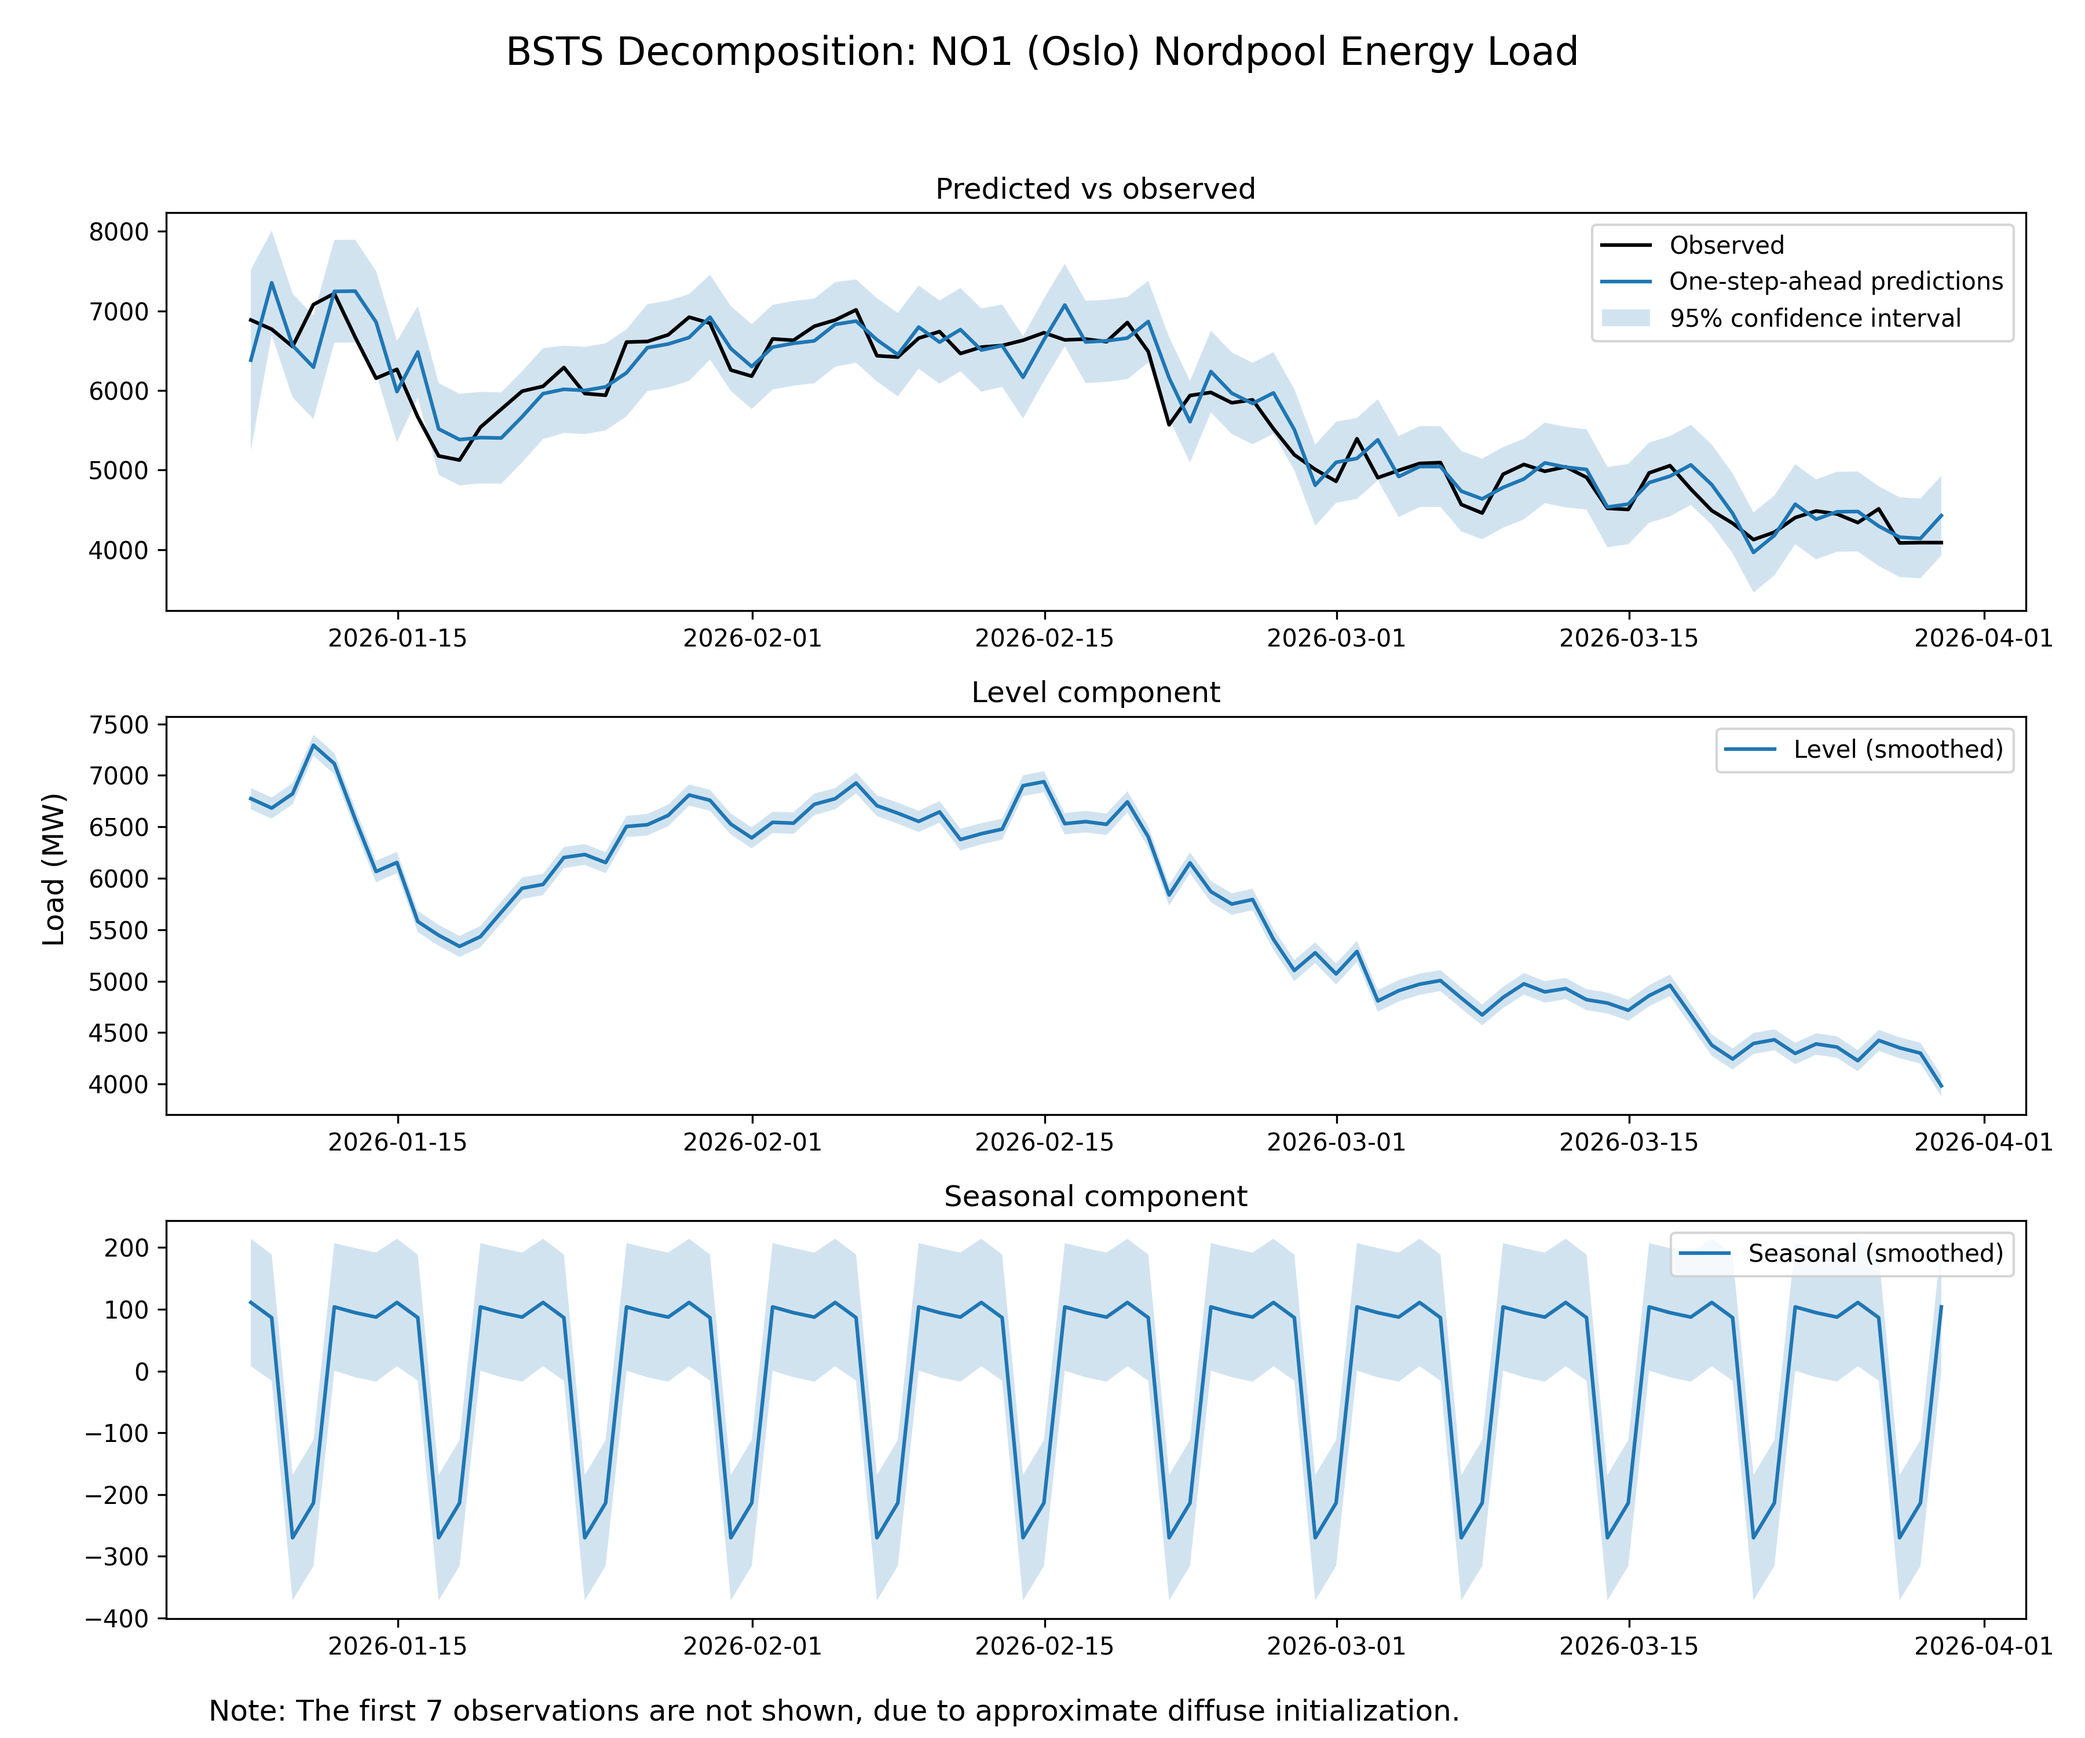
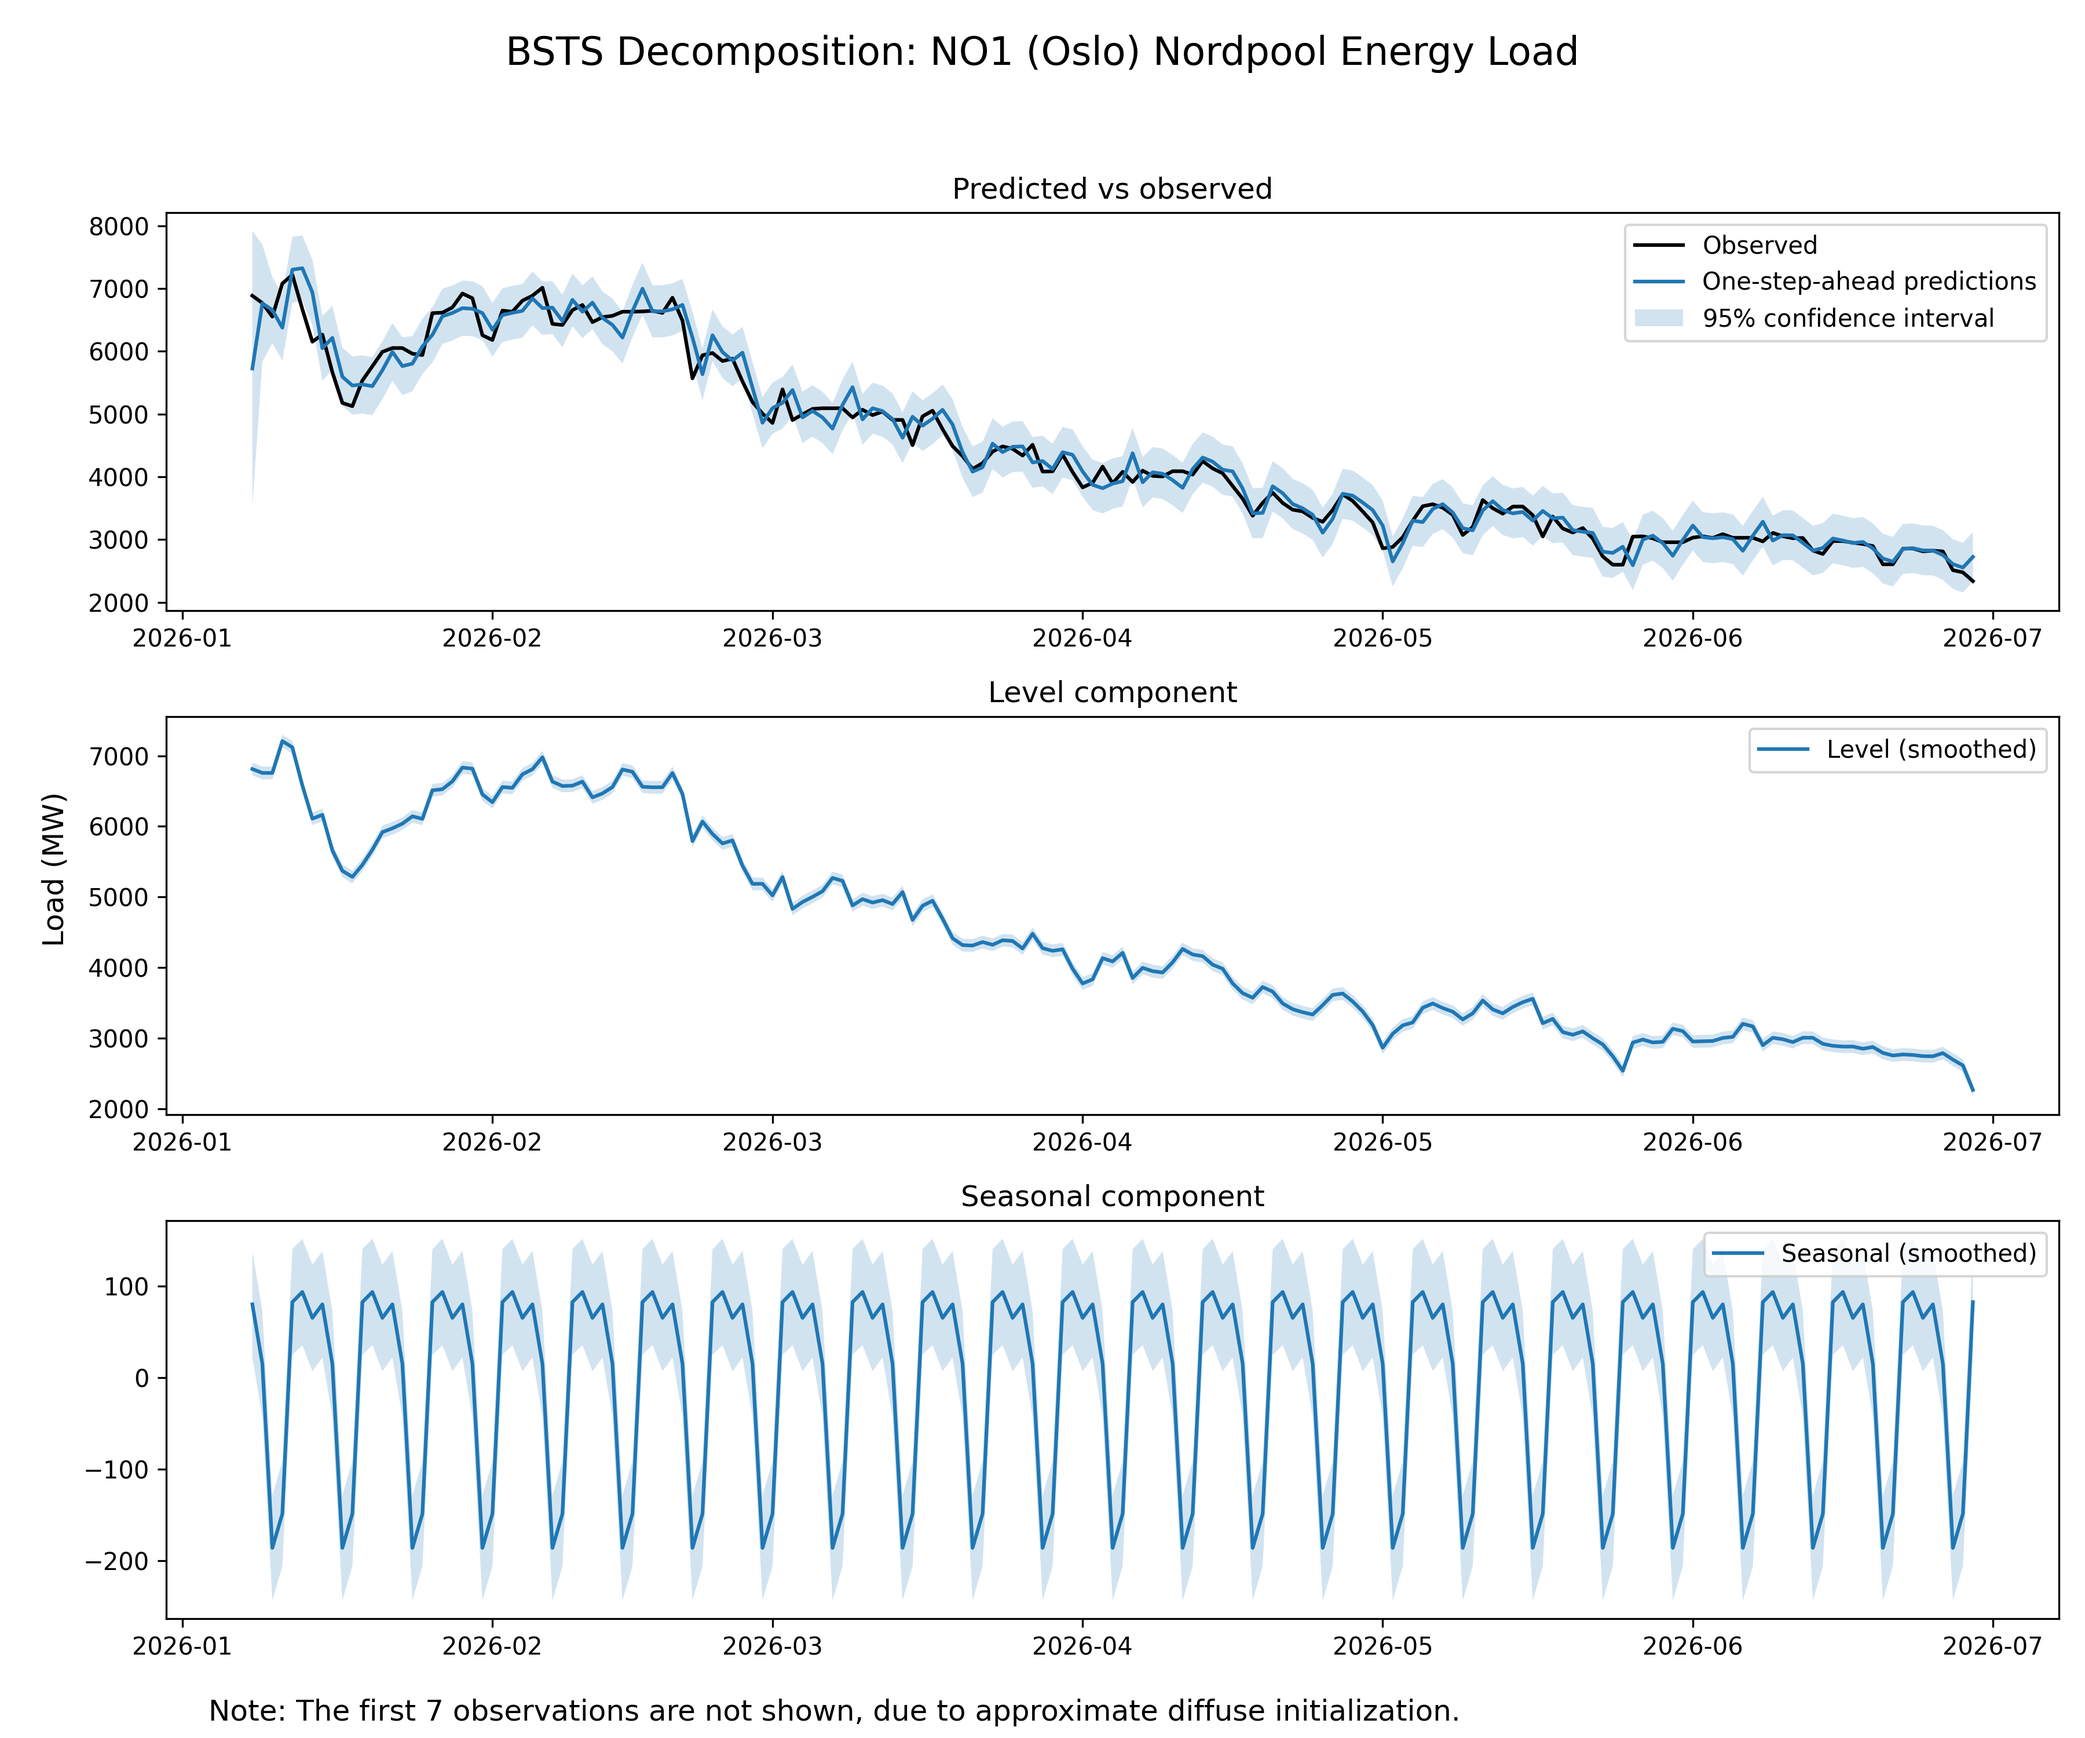
refactor: extract the data preprocessing logic from generate_plots.py to processor.py

diff --git a/src/energy_uncertainty_bsts/processing/processor.py b/src/energy_uncertainty_bsts/processing/processor.py
@@ -2,7 +2,45 @@ import pandas as pd
 from scipy.stats import median_abs_deviation
 
 
-def remove_outliers(data_frame, column) -> pd.DataFrame:
+def preprocess_data(data_frame: pd.DataFrame, column: str) -> pd.DataFrame:
+    """
+    Take an unprocessed data frame straight from the source and give it a regular structure.
+
+    :param data_frame: A data frame read from some source e.g. CSV.
+    :param column: The target column to read load values from.
+    :return: The processed data frame.
+    """
+
+    df_copy = data_frame.copy()
+
+    if len(df_copy.columns) != 2:
+        raise ValueError(f"Expected to preprocess 2 columns, got {len(df_copy.columns)} column(s).")
+
+    # Assume the first column is the timestamp.
+    first_col = df_copy.columns[0]
+    df_copy = df_copy.set_index(first_col)
+    df_copy.index.name = "Timestamp"
+
+    # Remove times and process only dates, before reattaching UTC time.
+    df_dates = df_copy.index.astype(str).str.split(" ").str[0]
+    df_copy.index = pd.to_datetime(df_dates).normalize().tz_localize("UTC")
+
+    if df_copy.index.freq is None:
+        df_copy = df_copy.asfreq("D")
+
+    df_copy = _fill_data_frame(df_copy)  # Fill any missing days.
+
+    # Identify the load column
+    if column not in df_copy.columns:
+        # If the expected load values column name is not found, take the first available column.
+        first_col = df_copy.columns[0]
+        print(f"Warning: '{column}' column not found. Using '{first_col}' instead.")
+        df_copy = df_copy.rename(columns={first_col: column})
+
+    return df_copy
+
+
+def remove_outliers(data_frame: pd.DataFrame, column: str) -> pd.DataFrame:
     """
     Detect and remove outliers to filter out extreme values.
 
@@ -13,10 +51,10 @@ def remove_outliers(data_frame, column) -> pd.DataFrame:
     Energy market loads typically follow a "random walk with drift", so a rolling window respects this seasonality.
     """
 
+    df_copy = data_frame.copy()
+
     rolling_window_days = 7  # The number of days the rolling window should have.
     z_score_threshold = 3
-
-    df_copy = data_frame.copy()
 
     rolling_median = df_copy[column].rolling(window=rolling_window_days, center=True, min_periods=1).median()
 
@@ -33,4 +71,12 @@ def remove_outliers(data_frame, column) -> pd.DataFrame:
     modified_z_score = abs((df_copy[column] - rolling_median) / rolling_mad)
 
     df_copy.loc[modified_z_score > z_score_threshold, column] = None
-    return df_copy.ffill()
+
+    df_copy = _fill_data_frame(df_copy)
+
+    return df_copy
+
+
+def _fill_data_frame(data_frame: pd.DataFrame):
+    data_frame = data_frame.ffill()  # Use forward filling to fill the data frame.
+    return data_frame

diff --git a/tests/processing/test_processor.py b/tests/processing/test_processor.py
@@ -1,10 +1,84 @@
+import re
+
 import numpy as np
 import pandas as pd
+import pytest
 
-from energy_uncertainty_bsts.processing.processor import remove_outliers
-from src.energy_uncertainty_bsts.config import CSV_LOAD_COLUMN_NAME
+from energy_uncertainty_bsts.config import CSV_LOAD_COLUMN_NAME
+from energy_uncertainty_bsts.processing.processor import preprocess_data, remove_outliers
 
 target_col = CSV_LOAD_COLUMN_NAME
+
+
+@pytest.fixture
+def test_data_frame() -> pd.DataFrame:
+    """
+    Generate a test data frame.
+    """
+
+    data = {
+        "": [
+            "2026-01-01 00:00:00+01:00",
+            "2026-01-02 00:00:00+01:00",
+            # Note the missing January 3rd
+            "2026-01-04 00:00:00+02:00",
+        ],
+        target_col: [5000.0, 5100.0, 5300.0],
+    }
+
+    return pd.DataFrame(data)
+
+
+def test_preprocess_data_verifies_two_columns():
+    df_one_clm = pd.DataFrame(
+        {
+            target_col: [100.0, 100.0],
+        }
+    )
+
+    expected_err_msg = f"Expected to preprocess 2 columns, got {len(df_one_clm.columns)} column(s)."
+    with pytest.raises(ValueError, match=re.escape(expected_err_msg)):
+        preprocess_data(df_one_clm, target_col)
+
+
+def test_preprocess_data_sets_timestamp_index(test_data_frame):
+    data_frame = preprocess_data(test_data_frame, target_col)
+
+    assert data_frame.index.name == "Timestamp"
+    assert "Timestamp" not in data_frame.columns
+    assert len(data_frame.columns) == 1
+
+
+def test_preprocess_data_utc_conversion(test_data_frame):
+    data_frame = preprocess_data(test_data_frame, target_col)
+
+    assert str(data_frame.index.tz) == "UTC"
+
+
+def test_preprocess_data_sets_frequency(test_data_frame):
+    data_frame = preprocess_data(test_data_frame, target_col)
+
+    assert data_frame.index.freqstr == "D"
+
+
+def test_preprocess_data_fills_missing_days(test_data_frame):
+    data_frame = preprocess_data(test_data_frame, target_col)
+
+    # The missing January 3rd date should be filled with Jan 2nd's value
+    assert len(data_frame) == 4
+
+    target_timestamp = pd.Timestamp(ts_input="2026-01-03", tz="UTC")
+    assert data_frame.loc[target_timestamp, target_col] == 5100.0
+
+
+def test_preprocess_data_column_fallback(test_data_frame):
+    bad_col_data_frame = test_data_frame.rename(columns={"Timestamp": "BadColumnName"})
+
+    data_frame = preprocess_data(bad_col_data_frame, target_col)
+
+    # Assert that the data frame renames its bad column name to the expected column name.
+    assert target_col in data_frame.columns
+    assert data_frame[target_col].iloc[0] == test_data_frame[target_col].iloc[0]
 
 
 def test_remove_outliers_detects_spike():

diff --git a/tests/test_data_processing.py b/tests/test_data_processing.py
@@ -3,16 +3,15 @@ from unittest.mock import patch
 
 import pandas as pd
 import pytest
-from pandas import DataFrame
 
+from energy_uncertainty_bsts.config import CSV_LOAD_COLUMN_NAME
 from energy_uncertainty_bsts.visualisation.generate_plots import get_project_root, load_and_preprocess_data
-from src.energy_uncertainty_bsts.config import CSV_LOAD_COLUMN_NAME
 
 target_col = CSV_LOAD_COLUMN_NAME
 
 
 @pytest.fixture
-def fake_data_frame() -> DataFrame:
+def fake_data_frame() -> pd.DataFrame:
     """
     Generate a test data frame.
     """
@@ -45,44 +44,6 @@ def test_load_and_preprocess_file_not_found():
 
     with pytest.raises(FileNotFoundError):
         load_and_preprocess_data(Path("non_existent.csv"), target_col)
-
-
-def test_load_and_preprocess_utc_conversion(fake_csv):
-    """
-    Verify timezones are converted to UTC.
-    """
-
-    data_frame = load_and_preprocess_data(fake_csv, target_col)
-    assert str(data_frame.index.tz) == "UTC"
-
-
-def test_load_and_preprocess_fills_missing_days(fake_csv):
-    """
-    Verify that the frequency is set and that gaps in the timeline are filled.
-    """
-
-    data_frame = load_and_preprocess_data(fake_csv, target_col)
-
-    assert data_frame.index.freqstr == "D"
-
-    # The missing January 3rd date should be filled with Jan 2nd's value (110.0)
-    assert len(data_frame) == 4
-    assert data_frame.loc["2026-01-03", target_col] == 110.0
-
-
-def test_load_and_preprocess_column_fallback(tmp_path):
-    """
-    Ensure that if the expected load values column name is not found, the first available column is used.
-    """
-
-    csv_path = tmp_path / "bad_col.csv"
-    pd.DataFrame({"BadColumnName": [1, 2, 3]}, index=["2026-01-01", "2026-01-02", "2026-01-03"]).to_csv(csv_path)
-
-    data_frame = load_and_preprocess_data(csv_path, target_col)
-
-    # Assert that the data frame renames its bad column name to the expected column name.
-    assert target_col in data_frame.columns
-    assert data_frame[target_col].iloc[0] == 1
 
 
 def test_load_and_preprocess_calls_outlier_removal(fake_data_frame, fake_csv):

diff --git a/src/energy_uncertainty_bsts/visualisation/generate_plots.py b/src/energy_uncertainty_bsts/visualisation/generate_plots.py
@@ -12,7 +12,7 @@ from energy_uncertainty_bsts.config import (
     LOAD_DATA_FILENAME,
 )
 from energy_uncertainty_bsts.modelling.sts_modeller import fit_sts_model
-from energy_uncertainty_bsts.processing.processor import remove_outliers
+from energy_uncertainty_bsts.processing.processor import preprocess_data, remove_outliers
 
 
 def get_project_root() -> Path:
@@ -40,23 +40,9 @@ def load_and_preprocess_data(data_file: Path, target_col) -> pd.DataFrame:
         raise FileNotFoundError(f"Could not find data at {data_file}")
 
     # Assume the CSV has 2 columns: a date column and a load values column.
-    data_frame = pd.read_csv(filepath_or_buffer=data_file, index_col=0)
+    data_frame = pd.read_csv(filepath_or_buffer=data_file)
 
-    # Manually parse dates to adjust for daylight savings by converting the timestamp column to UTC
-    data_frame.index = pd.to_datetime(data_frame.index, utc=True)
-
-    if data_frame.index.freq is None:
-        data_frame = data_frame.asfreq("D")
-
-    # If there are missing days, forward-fill them so statsmodels doesn't crash.
-    data_frame = data_frame.ffill()
-
-    # Identify the load column
-    if target_col not in data_frame.columns:
-        # If the expected load values column name is not found, take the first available column.
-        first_col = data_frame.columns[0]
-        print(f"Warning: '{target_col}' column not found. Using '{first_col}' instead.")
-        data_frame = data_frame.rename(columns={first_col: target_col})
+    data_frame = preprocess_data(data_frame, target_col)
 
     data_frame = remove_outliers(data_frame, target_col)
 

diff --git a/tests/ingestion/test_data_fetcher.py b/tests/ingestion/test_data_fetcher.py
@@ -3,8 +3,8 @@ from unittest.mock import MagicMock, patch
 import pandas as pd
 import pytest
 
+from energy_uncertainty_bsts.config import COUNTRY_CODE, ENTSOE_API_KEY_NAME, LOAD_DATA_FILENAME, YEAR
 from energy_uncertainty_bsts.ingestion.data_fetcher import fetch_nordic_load
-from src.energy_uncertainty_bsts.config import COUNTRY_CODE, ENTSOE_API_KEY_NAME, LOAD_DATA_FILENAME, YEAR
 
 
 def test_fetch_nordic_load_missing_key(monkeypatch):

diff --git a/src/energy_uncertainty_bsts/ingestion/data_fetcher.py b/src/energy_uncertainty_bsts/ingestion/data_fetcher.py
@@ -4,7 +4,7 @@ from pathlib import Path
 import pandas as pd
 from entsoe import EntsoePandasClient
 
-from src.energy_uncertainty_bsts.config import COUNTRY_CODE, DATA_DIR, ENTSOE_API_KEY_NAME, LOAD_DATA_FILENAME, YEAR
+from energy_uncertainty_bsts.config import COUNTRY_CODE, DATA_DIR, ENTSOE_API_KEY_NAME, LOAD_DATA_FILENAME, YEAR
 
 
 def fetch_nordic_load(year: int = YEAR):

diff --git a/README.md b/README.md
@@ -43,6 +43,8 @@ How to get the development env running:
    source .venv/bin/activate
    pip install -r requirements.txt
     ```
+3. To allow command line execution of Python files (like the `generate_plots` script),
+**install the project in editable mode**: `pip install -e .`
 
 ### Development Workflow
 This project uses `pip-tools` to manage dependencies. To update the lockfile:
@@ -55,7 +57,7 @@ in Python 3.12.
 
 ## ▶ Usage
 
-**Generate Plots**: `python src/energy_uncertainty_bsts/visualisation/generate_plots.py`
+**Generate Plots**: `python -m energy_uncertainty_bsts.visualisation.generate_plots`
 
 **Run Linter**: `ruff check .`
 
